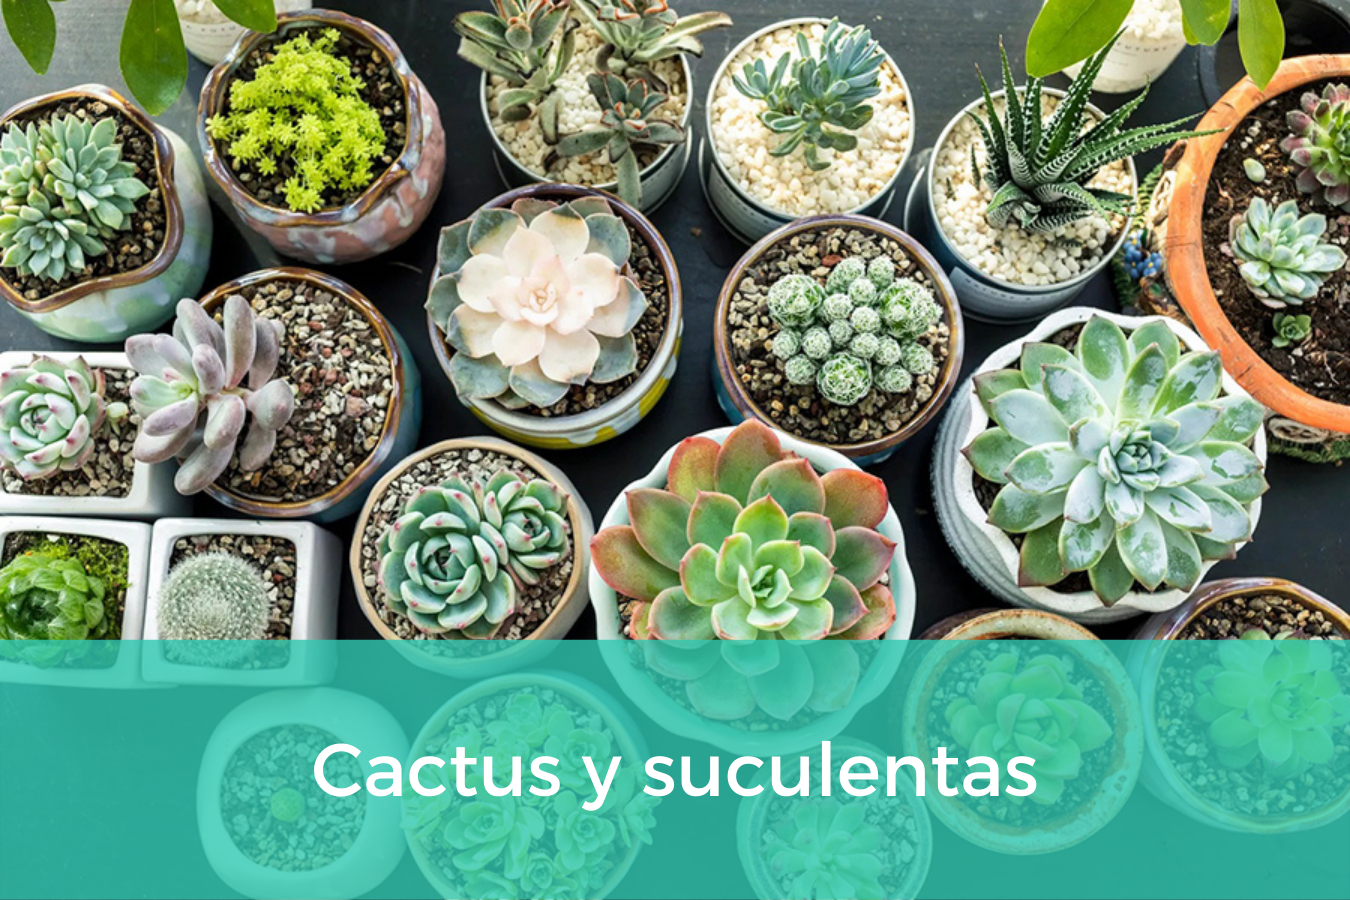
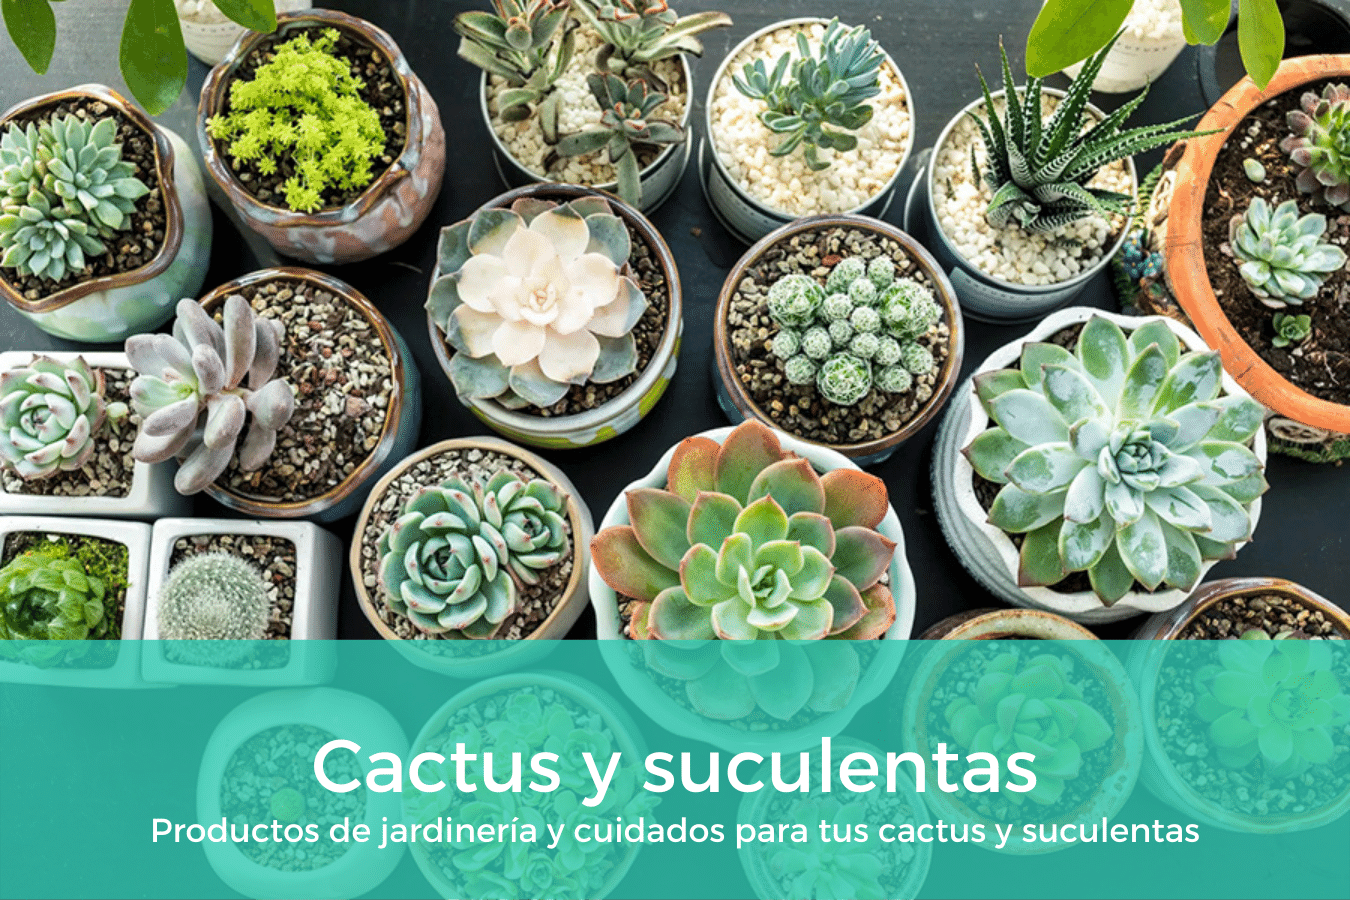
cambios slider

diff --git a/index.html b/index.html
@@ -65,27 +65,23 @@
                         <div class="carousel-item active">
                             <img src="./assets/img/slide-logo.png" class="d-block w-100" alt="...">
                             <div class="carousel-caption d-none d-md-block">
-                                <h1>ARTEMIS JARDINERÍA</h1>
                             </div>
                         </div>
                         <div class="carousel-item">
-                            <img src="./assets/img/silde01.jpg" class="d-block w-100" alt="...">
+                            <img src="./assets/img/slide01.png" class="d-block w-100" alt="...">
                             <div class="carousel-caption d-none d-md-block">
-                                <h2>Cactus y suculentas</h2>
                                 <p class="fs-5">Productos de jardinería y cuidados para tus cactus y suculentas</p>
                             </div>
                         </div>
                         <div class="carousel-item">
-                            <img src="./assets/img/silde02.jpg" class="d-block w-100" alt="...">
+                            <img src="./assets/img/slide02.png" class="d-block w-100" alt="...">
                             <div class="carousel-caption d-none d-md-block">
-                                <h2>Plantas de interior y exterior</h2>
                                 <p class="fs-5">Decora tu hogar y espacios de exterior</p>
                             </div>
                         </div>
                         <div class="carousel-item">
-                        <img src="./assets/img/slide03.jpg" class="d-block w-100" alt="...">
+                        <img src="./assets/img/slide03.png" class="d-block w-100" alt="...">
                         <div class="carousel-caption d-none d-md-block">
-                            <h2>Sustratos</h2>
                             <p class="fs-5">Variedad de sustratos</p>
                         </div>
                     </div>
@@ -104,6 +100,7 @@
             <div class="container">
                 <div class="row">
                     <div class="text">
+                        <h1>ARTEMIS JARDINERÍA</h1>
                         <h2>Cactus y Suculentas</h2>
                         <p>Se dice de los cactus que son plantas todoterreno que, prácticamente no necesitan cuidados. Apenas hay que regarlas y su crecimiento es lento y pausado, por lo que no requieren de trasplantes ni otras atenciones.</p>
                         <p>Esa creencia de que los cactus son plantas que no necesitan nada de nosotros no es del todo cierta. La realidad es que requieren atenciones distintas al resto.</p>
